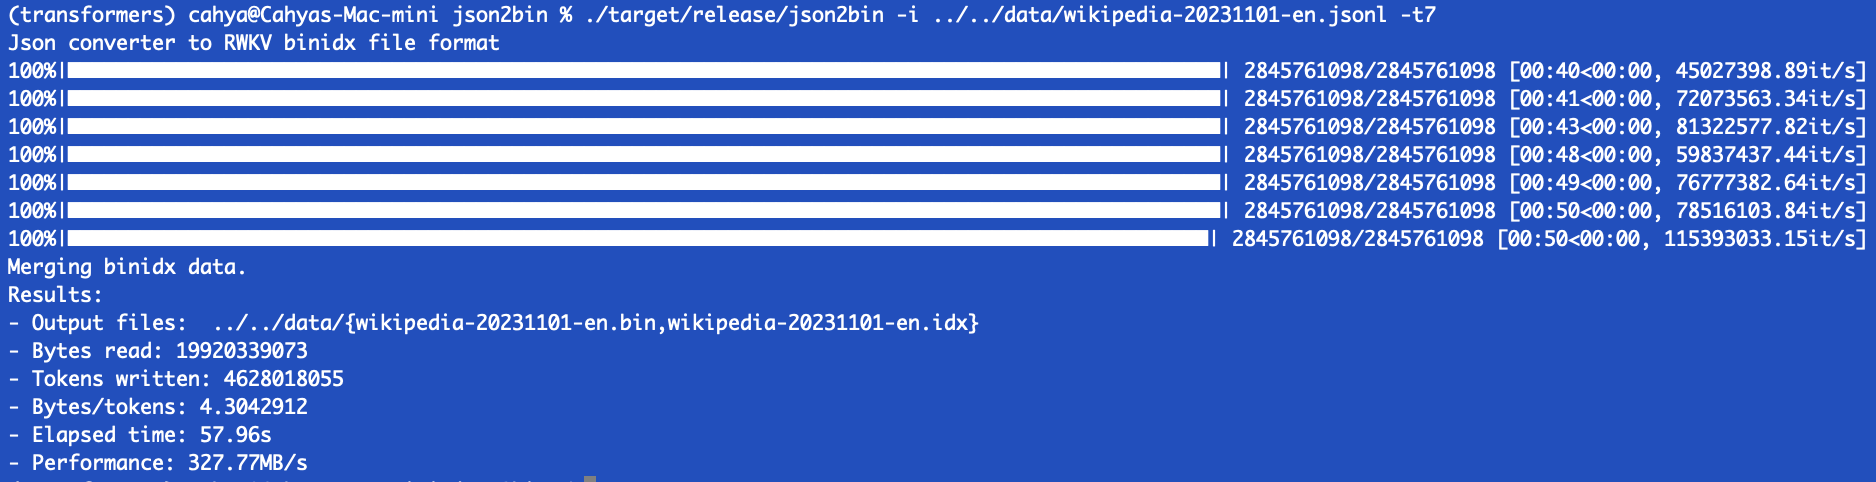
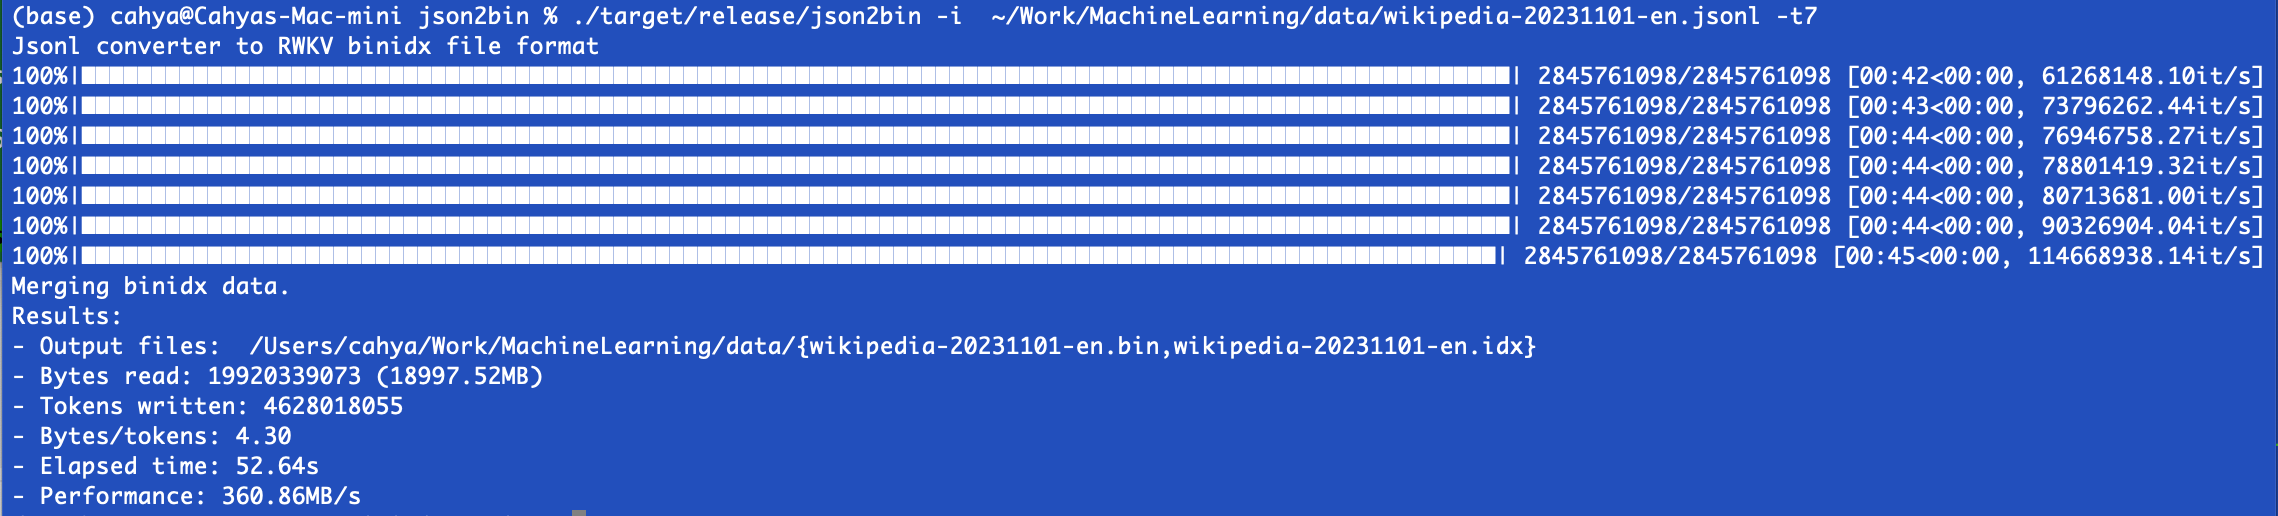
Update README.md

Changed region(s): [[0.0, 0.0, 1.0, 0.9959], [0.3092, 0.9959, 0.3401, 1.0], [0.2473, 0.9959, 0.2783, 1.0]]

diff --git a/README.md b/README.md
@@ -44,9 +44,7 @@ $ json2bin -i src/sample.jsonl -t 4
 
 ## Performance comparison
 
-We converted a 213MB simple english wikipedia in jsonl format to binidx format in M2 Apple machine. The Rust json2bin
-is more than 24 times faster than the Python json2binidx:
-The Python json2binidx: 46.87s
-This Rust json2bin: 1.92s
-
-
+We converted a 19GB English Wikipedia (20231101.en) in jsonl format to binidx format in M2 Apple machine. 
+The Rust json2bin run with 7 threads, and it was 70 times faster than the Python json2binidx:
+- The Python [json2binidx](https://github.com/Abel2076/json2binidx_tool): 1:01:45 or 5.13MB/s
+- This Rust json2bin: 52.64s or 360.86MB/s
